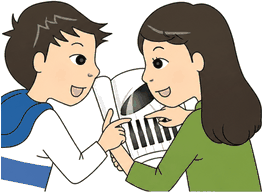
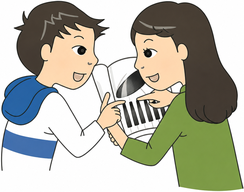
SET11: recolour Q28 ships, finish Q37 option 4 left edge

diff --git a/ubt-new/sets/2025_SET11/data.js b/ubt-new/sets/2025_SET11/data.js
@@ -1,1 +1,1 @@
-UBT.set({"tag":"2025_SET11","title":"វិញ្ញាសាទី ១១","questions":[{"n":1,"prompt":"다음 그림을 보고 맞는 단어나 문장을 고르십시오.","body":"","options":[{"kind":"text","text":"바구니입니다.","art":null},{"kind":"text","text":"마대입니다.","art":null},{"kind":"text","text":"비닐 봉투입니다.","art":null},{"kind":"text","text":"종량제 봉투입니다.","art":null}],"a":2,"art":"q/01_stem.png?v=cba314088ba745d8"},{"n":2,"prompt":"다음 그림을 보고 맞는 단어나 문장을 고르십시오.","body":"","options":[{"kind":"text","text":"굴착기로 흙을 파고 있습니다.","art":null},{"kind":"text","text":"굴착기로 흙을 쌓고 있습니다.","art":null},{"kind":"text","text":"지게차로 흙을 파고 있습니다.","art":null},{"kind":"text","text":"지게차로 흙을 쌓고 있습니다.","art":null}],"a":2,"art":"q/02_stem.png?v=76c2294c92918078"},{"n":3,"prompt":"다음 질문에 답하십시오.","body":"다음 단어와 관계있는 것은 고르십시오.\n음담패설","options":[{"kind":"text","text":"성범죄","art":null},{"kind":"text","text":"성인식","art":null},{"kind":"text","text":"성상담","art":null},{"kind":"text","text":"성교육","art":null}],"a":1,"art":null},{"n":4,"prompt":"다음 질문에 답하십시오.","body":"다음 단어의 반댓말은 무엇입니까?\n분리하다","options":[{"kind":"text","text":"분류하다","art":null},{"kind":"text","text":"혼합하다","art":null},{"kind":"text","text":"확대하다","art":null},{"kind":"text","text":"적합하다","art":null}],"a":2,"art":null},{"n":5,"prompt":"빈칸에 들어갈 가장 알맞은 것을 고르십시오.","body":"직장 동료에게 농담을 했습니다. 그런데 내 농담을 듣고 직장 동료의 ________이/가 안 좋았습니다. 내 농담이 불쾌하다고 해서 빨리 사과했습니다.","options":[{"kind":"text","text":"얼굴","art":null},{"kind":"text","text":"표정","art":null},{"kind":"text","text":"안색","art":null},{"kind":"text","text":"성격","art":null}],"a":2,"art":null},{"n":6,"prompt":"빈칸에 들어갈 가장 알맞은 것을 고르십시오.","body":"친구한테 빌린 돈을 갚으려고 통장을 ______ 잔액이 부족했습니다. 그래서 이번 달 월급을 받으면 갚기로 했습니다.","options":[{"kind":"text","text":"조회해 보니","art":null},{"kind":"text","text":"대출해 보니","art":null},{"kind":"text","text":"조회하고 나서","art":null},{"kind":"text","text":"대출하고 나서","art":null}],"a":4,"art":null},{"n":7,"prompt":"빈칸에 들어갈 가장 알맞은 것을 고르십시오.","body":"등산은 한국 사람들이 즐겨 하는 ______ 활동입니다. 주말이나 휴일에 가까운 산으로 등산하러 가는 사람들을 많이 볼 수 있습니다.","options":[{"kind":"text","text":"기념","art":null},{"kind":"text","text":"직업","art":null},{"kind":"text","text":"회식","art":null},{"kind":"text","text":"여가","art":null}],"a":4,"art":null},{"n":8,"prompt":"빈칸에 들어갈 가장 알맞은 것을 고르십시오.","body":"이번 일요일에 집에서 해야 할 일이 많습니다. 제일 먼저 침대가 ______.","options":[{"kind":"text","text":"오래되니까","art":null},{"kind":"text","text":"오래되다가","art":null},{"kind":"text","text":"사용되니까","art":null},{"kind":"text","text":"사용되다가","art":null}],"a":1,"art":null},{"n":9,"prompt":"다음 질문에 답하십시오.","body":"밑줄 친 부분이 맞는 문장을 고르십시오.","options":[{"kind":"text","text":"지하철을 타서 회사에 출근해요.","art":null,"marks":[{"type":"underline","start":5,"end":7}]},{"kind":"text","text":"술을 마셔서 운전할 줄 몰라요.","art":null,"marks":[{"type":"underline","start":7,"end":16}]},{"kind":"text","text":"한국어를 배우려고 센터에 가세요.","art":null,"marks":[{"type":"underline","start":5,"end":9}]},{"kind":"text","text":"미술관에 음식물을 반입할 수 없어요.","art":null,"marks":[{"type":"underline","start":10,"end":19}]}],"a":4,"art":null},{"n":10,"prompt":"다음 질문에 답하십시오.","body":"이 표지는 무슨 뜻입니까?\n술에 취한 사람은 들어가지 마세요.","options":[{"kind":"picture","text":"","art":"q/10_o1.png?v=3014f0a62c2a1527"},{"kind":"picture","text":"","art":"q/10_o2.png?v=1e692d0e1a30ca7a"},{"kind":"picture","text":"","art":"q/10_o3.png?v=bec58bc3f053acbe"},{"kind":"picture","text":"","art":"q/10_o4.png?v=42d220e2ef981381"}],"a":1,"art":null},{"n":11,"prompt":"다음 질문에 답하십시오.","body":"다음 그래프에 대한 가장 알맞은 것을 고르십시오.","options":[{"kind":"text","text":"아파트에 사는 사람이 많지 않습니다.","art":null},{"kind":"text","text":"기숙사에 사는 사람들이 두 번째 적습니다.","art":null},{"kind":"text","text":"자취방과 아파트에 사는 사람이 거의 같습니다.","art":null},{"kind":"text","text":"아파트에 사는 사람들이 절반 넘지 않습니다.","art":null}],"a":4,"art":"q/11_stem.png?v=cf201e39615e49e4"},{"n":12,"prompt":"다음 질문에 답하십시오.","body":"다음 글을 읽고 내용과 같은 것을 고르십시오.","options":[{"kind":"text","text":"이 상품은 외국인들을 위해 만 가능합니다.","art":null},{"kind":"text","text":"40명이 같이 출발하면 120,000원 내야 합니다.","art":null},{"kind":"text","text":"갯벌 체험하고 온천 물로 목욕할 수 있습니다.","art":null},{"kind":"text","text":"동대문에서 오후 9시에 안면도로 출발합니다.","art":null}],"a":3,"art":"q/12_stem.png?v=a2f33c8c388fabfa"},{"n":13,"prompt":"빈칸에 들어갈 가장 알맞은 것을 고르십시오.","body":"내일은 한국 식당에서 저녁을 먹으러 ______ 같이 갈까요?","options":[{"kind":"text","text":"팔 건데","art":null},{"kind":"text","text":"파는 대신에","art":null},{"kind":"text","text":"가는 대신에","art":null},{"kind":"text","text":"갈 건데","art":null}],"a":4,"art":null},{"n":14,"prompt":"빈칸에 들어갈 가장 알맞은 것을 고르십시오.","body":"저는 한국 사람이지만 영국에서 ______. 그래서 한국어와 영어를 모두 잘합니다.","options":[{"kind":"text","text":"살고 싶습니다","art":null},{"kind":"text","text":"사는 것 같습니다","art":null},{"kind":"text","text":"살고 있습니다","art":null},{"kind":"text","text":"사면 됩니다","art":null}],"a":3,"art":null},{"n":15,"prompt":"다음 글을 읽고 무엇에 대한 글인지 고르십시오.","body":"다음 글을 읽고 무엇에 대한 글인지 고르십시오.\n몽골의 전통집은 '게르'라고 합니다. '게르'는 나무로 벽을 세우고, 그 위에 가죽으로 만든 '펠트'를 씌워서 만든 집입니다. '게르'는 겨울에는 바람을 막아 주어서 따뜻하고, 여름에는 햇빛을 막아 주어서 시원합니다.","options":[{"kind":"text","text":"가죽","art":null},{"kind":"text","text":"주거","art":null},{"kind":"text","text":"나무","art":null},{"kind":"text","text":"시설","art":null}],"a":2,"art":null},{"n":16,"prompt":"다음 글을 읽고 무엇에 대한 글인지 고르십시오.","body":"다음 글을 읽고 무엇에 대한 글인지 고르십시오.\n몽골의 전통집은 '게르'라고 합니다. '게르'는 나무로 벽을 세우고, 그 위에 가죽으로 만든 '펠트'를 씌워서 만든 집입니다. '게르'는 겨울에는 바람을 막아 주어서 따뜻하고, 여름에는 햇빛을 막아 주어서 시원합니다.","options":[{"kind":"text","text":"가죽","art":null},{"kind":"text","text":"주거","art":null},{"kind":"text","text":"나무","art":null},{"kind":"text","text":"시설","art":null}],"a":3,"art":null},{"n":17,"prompt":"다음 글을 읽고 내용과 같은 것을 고르십시오.","body":"한국은 아시아 동쪽의 한반도에 있습니다. 한반도의 북쪽에 중국과 러시아가 있고 동쪽에 있는 바다를 건너면 일본이 있습니다. 한국의 다른 이름은 대한민국이고 수도는 서울입니다. 서울은 한반도의 중심에 있습니다. 인구는 오천만 명 정도인데 천만 명 정도가 서울에 삽니다. 한국에는 산이 많습니다. 한국의 70%가 산이지만 산의 높이가 아주 높지는 않습니다.","options":[{"kind":"text","text":"한국의 수도는 대한민국입니다.","art":null},{"kind":"text","text":"한국에는 높은 산이 아주 많습니다.","art":null},{"kind":"text","text":"한국은 아시아 북쪽에 있습니다.","art":null},{"kind":"text","text":"한국에는 약 오천만 명이 삽니다.","art":null}],"a":4,"art":null},{"n":18,"prompt":"다음 글을 읽고 내용과 같은 것을 고르십시오.","body":"한국에는 막걸리와 소주 두 가지 유명한 술이 있어요. 막걸리는 쌀과 물을 섞어서 만든 부드럽고 가벼운 맛이에요. 발효 과정으로 만든 이 술은 건강에도 좋아요. 여름에 특히 인기가 많아요. 소주는 쌀, 보리, 감자 등을 사용해서 깔끔하고 순수한 맛이에요. 다양한 자리와 모임에서 가장 많이 마시는 술 중 하나입니다. 요즘은 이런 술의 다양한 맛과 향을 즐길 수 있어요. 한국 문화와 역사에서 중요한 역할을 하는 전통 술이에요.","options":[{"kind":"text","text":"한국에는 막걸리만 유명해요.","art":null},{"kind":"text","text":"요즘은 이런 술을 별로 안 마십니다.","art":null},{"kind":"text","text":"막걸리는 여름철에 인기가 많아요.","art":null},{"kind":"text","text":"소주는 다른 맛과 향을 즐길 수 없어요.","art":null}],"a":3,"art":null},{"n":19,"prompt":"다음 설명에 알맞은 어휘를 고르십시오.","body":"사람들이 모여서 여러 운동 경기를 함께 하고 즐기는 행사입니다.","options":[{"kind":"text","text":"단합 대회","art":null},{"kind":"text","text":"등반 대회","art":null},{"kind":"text","text":"체육 대회","art":null},{"kind":"text","text":"야유회","art":null}],"a":3,"art":null},{"n":20,"prompt":"다음 설명에 알맞은 어휘를 고르십시오.","body":"사람들이 모여서 여러 운동 경기를 함께 하고 즐기는 행사입니다.","options":[{"kind":"text","text":"단합 대회","art":null},{"kind":"text","text":"등반 대회","art":null},{"kind":"text","text":"체육 대회","art":null},{"kind":"text","text":"야유회","art":null}],"a":3,"art":null},{"n":21,"prompt":"다음을 듣고 빈칸에 알맞은 것을 고르십시오.","body":"_____을 듣고 있어요.","options":[{"kind":"text","text":"케이팝","art":null},{"kind":"text","text":"힙합","art":null},{"kind":"text","text":"클래식","art":null},{"kind":"text","text":"트로트","art":null}],"a":1,"m":"audio/21.mp3?v=0319d9414db6600f","art":null},{"n":22,"prompt":"다음을 듣고 빈칸에 알맞은 것을 고르십시오.","body":"유니폼 파는 사이트 좀 ______ 주세요.","options":[{"kind":"text","text":"가르쳐","art":null},{"kind":"text","text":"기다려","art":null},{"kind":"text","text":"알려","art":null},{"kind":"text","text":"만들어","art":null}],"a":1,"m":"audio/22.mp3","art":null},{"n":23,"prompt":"들은 것을 고르십시오.","body":"","options":[{"kind":"picture","text":"","art":"q/23_o1.png?v=b5fbc7797d140a69"},{"kind":"picture","text":"","art":"q/23_o2.png?v=5a61b53bd470dad7"},{"kind":"picture","text":"","art":"q/23_o3.png?v=ec2c9479f939b983"},{"kind":"picture","text":"","art":"q/23_o4.png?v=95a1f19bcbed0982"}],"a":3,"m":"audio/23.mp3","art":null},{"n":24,"prompt":"들은 것을 고르십시오.","body":"","options":[{"kind":"picture","text":"","art":"q/24_o1.png?v=ee73ca99919b3dd4"},{"kind":"picture","text":"","art":"q/24_o2.png?v=a9b8149955c9bf77"},{"kind":"picture","text":"","art":"q/24_o3.png?v=570dd338c0ea56a2"},{"kind":"picture","text":"","art":"q/24_o4.png?v=a9907ebe7afa2c0a"}],"a":4,"m":"audio/24.mp3?v=db95f62ebed09eee","art":null},{"n":25,"prompt":"그림을 보고 알맞은 대답을 고르십시오.","body":"이것은 무엇입니까?","options":[{"kind":"text","text":"배달 앱입니다.","art":null,"audio":"audio/25_o1.mp3?v=ed70c0b9a36e3089"},{"kind":"text","text":"모바일 뱅킹입니다.","art":null,"audio":"audio/25_o2.mp3?v=fe1e4972a75ea7cf"},{"kind":"text","text":"SNS입니다.","art":null,"audio":"audio/25_o3.mp3?v=b9cc9845216a3bd2"},{"kind":"text","text":"홈페이지입니다.","art":null,"audio":"audio/25_o4.mp3?v=42ea13b523e00e7a"}],"a":2,"art":"q/25_stem.png?v=1217f32f0b5941da","m":"audio/25.mp3?v=5f92c3ed0c1b5e93"},{"n":26,"prompt":"그림을 보고 알맞은 대답을 고르십시오.","body":"여기는 어디입니까?","options":[{"kind":"text","text":"구내식당입니다.","art":null,"audio":"audio/26_o1.mp3?v=b2555305fb91e53b"},{"kind":"text","text":"커피숍입니다.","art":null,"audio":"audio/26_o2.mp3?v=562939045bd2bbe7"},{"kind":"text","text":"빵집입니다.","art":null,"audio":"audio/26_o3.mp3?v=d254808f95c4a554"},{"kind":"text","text":"편의점입니다.","art":null,"audio":"audio/26_o4.mp3?v=108edc379e42ea69"}],"a":1,"art":"q/26_stem.png?v=9db09bd1e534d6b9","m":"audio/26.mp3?v=8d3dd2dc04e76458"},{"n":27,"prompt":"그림을 보고 알맞은 대답을 고르십시오.","body":"이 사람은 무엇을 하고 있습니까?","options":[{"kind":"text","text":"나무를 자르고 있습니다.","art":null,"audio":"audio/27_o1.mp3?v=984d313ce44692db"},{"kind":"text","text":"나무를 운반하고 있습니다.","art":null,"audio":"audio/27_o2.mp3?v=2bec8d702a008016"},{"kind":"text","text":"나무를 차에 싣고 있습니다.","art":null,"audio":"audio/27_o3.mp3?v=ea1b0772276cd72f"},{"kind":"text","text":"나무를 쌓고 있습니다.","art":null,"audio":"audio/27_o4.mp3?v=1c7626de1787ffde"}],"a":4,"art":"q/27_stem.png?v=6b935aa44add8533","m":"audio/27.mp3?v=81742c3e92d099d9"},{"n":28,"prompt":"그림을 보고 알맞은 대답을 고르십시오.","body":"배가 얼마나 있습니까?","options":[{"kind":"text","text":"한 개 있습니다.","art":null,"audio":"audio/28_o1.mp3?v=4580a85255d21f77"},{"kind":"text","text":"두 개 있습니다.","art":null,"audio":"audio/28_o2.mp3?v=a49c2d51cfb731f9"},{"kind":"text","text":"한 척 있습니다.","art":null,"audio":"audio/28_o3.mp3?v=905514056074312b"},{"kind":"text","text":"두 척 있습니다.","art":null,"audio":"audio/28_o4.mp3?v=0d61d4e15cec644e"}],"a":4,"art":"q/28_stem.png?v=a5af5a99291ecc19","m":"audio/28.mp3?v=5f44925d1e221449"},{"n":29,"prompt":"그림을 보고 알맞은 대답을 고르십시오.","body":"창구는 어디에 있습니까?","options":[{"kind":"text","text":"식당 뒤에 있습니다.","art":null,"audio":"audio/29_o1.mp3?v=4cafcd830c9340ab"},{"kind":"text","text":"작업장 밖에 있습니다.","art":null,"audio":"audio/29_o2.mp3?v=fb3cccc5481a0814"},{"kind":"text","text":"사무실 앞에 있습니다.","art":null,"audio":"audio/29_o3.mp3?v=81c84fcd96dc6b96"},{"kind":"text","text":"관리실 옆에 있습니다.","art":null,"audio":"audio/29_o4.mp3?v=675cba136b858805"}],"a":3,"art":"q/29_stem.png?v=d0d40ab1026c9a1c","m":"audio/29.mp3?v=04a8b23f96763c8c"},{"n":30,"prompt":"다음을 듣고 질문에 알맞은 대답을 고르십시오.","body":"","options":[{"kind":"text","text":"작년부터 담배를 끊었어요.","art":null},{"kind":"text","text":"기숙사에는 담배를 피우는 사람이 많아요.","art":null},{"kind":"text","text":"여기 있는 사람들은 응원단이에요.","art":null},{"kind":"text","text":"여기에서 잠깐 기다려 주세요.","art":null}],"a":3,"m":"audio/30.mp3?v=6d2bb5d9cd78b726","art":null},{"n":31,"prompt":"다음을 듣고 질문에 알맞은 대답을 고르십시오.","body":"","options":[{"kind":"text","text":"작업이 끝나면 전원을 차단해야 돼요.","art":null},{"kind":"text","text":"전기 요금이 지난달보다 적게 나왔어요.","art":null},{"kind":"text","text":"작업을 시작하기 전에 기계를 점검하세요.","art":null},{"kind":"text","text":"전원이 흐르고 있으니까 조심하세요.","art":null}],"a":1,"m":"audio/31.mp3?v=fe2276c5dffed6b3","art":null},{"n":32,"prompt":"다음을 듣고 질문에 알맞은 대답을 고르십시오.","body":"","options":[{"kind":"text","text":"도서관에 갈 거예요.","art":null},{"kind":"text","text":"연필하고 공책을 샀어요.","art":null},{"kind":"text","text":"동대문 시장에서 샀어요.","art":null},{"kind":"text","text":"내일 서점에 갈 거예요.","art":null}],"a":3,"m":"audio/32.mp3?v=918765066f1c3e4e","art":null},{"n":33,"prompt":"다음을 듣고 질문에 알맞은 대답을 고르십시오.","body":"","options":[{"kind":"text","text":"체류 기간이 만료되기 전까지 연장하세요.","art":null},{"kind":"text","text":"비자가 아직 유효해서 괜찮아요.","art":null},{"kind":"text","text":"기간이 많이 남았으니까 아직 안 했어요.","art":null},{"kind":"text","text":"계약 기간을 연장하러 고용센터에 가요.","art":null}],"a":3,"m":"audio/33.mp3?v=31319e7bfeb6a9c6","art":null},{"n":34,"prompt":"다음을 듣고 이어지는 말을 고르십시오.","body":"","options":[{"kind":"text","text":"앞으로 한 달간은 눈이 온다고 했어요.","art":null},{"kind":"text","text":"날씨 때문에 오늘 작업을 못 했어요.","art":null},{"kind":"text","text":"날씨도 좋은데 우리 산책할까요?","art":null},{"kind":"text","text":"날씨가 안 좋을까 봐 걱정이에요.","art":null}],"a":3,"m":"audio/34.mp3?v=51f71f15a847df26","art":null},{"n":35,"prompt":"다음을 듣고 이어지는 말을 고르십시오.","body":"","options":[{"kind":"text","text":"앞으로 한 달간은 눈이 온다고 했어요.","art":null},{"kind":"text","text":"날씨 때문에 오늘 작업을 못 했어요.","art":null},{"kind":"text","text":"날씨도 좋은데 우리 산책할까요?","art":null},{"kind":"text","text":"날씨가 안 좋을까 봐 걱정이에요.","art":null}],"a":4,"m":"audio/35.mp3?v=a85d61a4649c7a48","art":null},{"n":36,"prompt":"잘 듣고 들은 내용과 관계있는 그림을 고르십시오.","body":"","options":[{"kind":"picture","text":"","art":"q/36_o1.png?v=c9305e2e72775ced"},{"kind":"picture","text":"","art":"q/36_o2.png?v=038044e52f460868"},{"kind":"picture","text":"","art":"q/36_o3.png?v=e4d1623a35e0a01d"},{"kind":"picture","text":"","art":"q/36_o4.png?v=2e6551c0735bf607"}],"a":3,"m":"audio/36.mp3?v=73760c546186ba56","art":null},{"n":37,"prompt":"잘 듣고 들은 내용과 관계있는 그림을 고르십시오.","body":"","options":[{"kind":"picture","text":"","art":"q/37_o1.png?v=91ebe694a475fdb0"},{"kind":"picture","text":"","art":"q/37_o2.png?v=a7a28ae9801eabd8"},{"kind":"picture","text":"","art":"q/37_o3.png?v=303e059746571603"},{"kind":"picture","text":"","art":"q/37_o4.png?v=d859880b7eabfb48"}],"a":1,"m":"audio/37.mp3?v=edf3897970a0db7c","art":null},{"n":38,"prompt":"이야기를 듣고 질문에 알맞은 대답을 고르십시오.","body":"두 사람이 무엇에 대해 이야기하고 있는지 고르십시오.","options":[{"kind":"text","text":"눈 건강","art":null},{"kind":"text","text":"컴퓨터의 단점","art":null},{"kind":"text","text":"안경을 쓰는 이유","art":null},{"kind":"text","text":"컴퓨터로 할 수 있는 일","art":null}],"a":1,"m":"audio/38.mp3","art":null},{"n":39,"prompt":"이야기를 듣고 질문에 알맞은 대답을 고르십시오.","body":"대화를 듣고 내용과 같은 것을 고르십시오.","options":[{"kind":"text","text":"남자는 여자를 걱정하고 있습니다.","art":null},{"kind":"text","text":"여자는 몸이 아파서 늦게 왔습니다.","art":null},{"kind":"text","text":"두 사람은 내일 아침에 만날 겁니다.","art":null},{"kind":"text","text":"두 사람은 택시를 기다리고 있습니다.","art":null}],"a":1,"m":"audio/39.mp3","art":null},{"n":40,"prompt":"이야기를 듣고 질문에 알맞은 대답을 고르십시오.","body":"대화를 듣고 내용과 같은 것을 고르십시오.","options":[{"kind":"text","text":"남자는 여자에게 사진을 선물했습니다.","art":null},{"kind":"text","text":"여자는 사진 찍는 것을 안 좋아합니다.","art":null},{"kind":"text","text":"남자는 사진 찍는 것을 배우고 있습니다.","art":null},{"kind":"text","text":"여자는 주말에 사진을 찍으러 갈 겁니다.","art":null}],"a":4,"m":"audio/40.mp3","art":null}]});
+UBT.set({"tag":"2025_SET11","title":"វិញ្ញាសាទី ១១","questions":[{"n":1,"prompt":"다음 그림을 보고 맞는 단어나 문장을 고르십시오.","body":"","options":[{"kind":"text","text":"바구니입니다.","art":null},{"kind":"text","text":"마대입니다.","art":null},{"kind":"text","text":"비닐 봉투입니다.","art":null},{"kind":"text","text":"종량제 봉투입니다.","art":null}],"a":2,"art":"q/01_stem.png?v=cba314088ba745d8"},{"n":2,"prompt":"다음 그림을 보고 맞는 단어나 문장을 고르십시오.","body":"","options":[{"kind":"text","text":"굴착기로 흙을 파고 있습니다.","art":null},{"kind":"text","text":"굴착기로 흙을 쌓고 있습니다.","art":null},{"kind":"text","text":"지게차로 흙을 파고 있습니다.","art":null},{"kind":"text","text":"지게차로 흙을 쌓고 있습니다.","art":null}],"a":2,"art":"q/02_stem.png?v=76c2294c92918078"},{"n":3,"prompt":"다음 질문에 답하십시오.","body":"다음 단어와 관계있는 것은 고르십시오.\n음담패설","options":[{"kind":"text","text":"성범죄","art":null},{"kind":"text","text":"성인식","art":null},{"kind":"text","text":"성상담","art":null},{"kind":"text","text":"성교육","art":null}],"a":1,"art":null},{"n":4,"prompt":"다음 질문에 답하십시오.","body":"다음 단어의 반댓말은 무엇입니까?\n분리하다","options":[{"kind":"text","text":"분류하다","art":null},{"kind":"text","text":"혼합하다","art":null},{"kind":"text","text":"확대하다","art":null},{"kind":"text","text":"적합하다","art":null}],"a":2,"art":null},{"n":5,"prompt":"빈칸에 들어갈 가장 알맞은 것을 고르십시오.","body":"직장 동료에게 농담을 했습니다. 그런데 내 농담을 듣고 직장 동료의 ________이/가 안 좋았습니다. 내 농담이 불쾌하다고 해서 빨리 사과했습니다.","options":[{"kind":"text","text":"얼굴","art":null},{"kind":"text","text":"표정","art":null},{"kind":"text","text":"안색","art":null},{"kind":"text","text":"성격","art":null}],"a":2,"art":null},{"n":6,"prompt":"빈칸에 들어갈 가장 알맞은 것을 고르십시오.","body":"친구한테 빌린 돈을 갚으려고 통장을 ______ 잔액이 부족했습니다. 그래서 이번 달 월급을 받으면 갚기로 했습니다.","options":[{"kind":"text","text":"조회해 보니","art":null},{"kind":"text","text":"대출해 보니","art":null},{"kind":"text","text":"조회하고 나서","art":null},{"kind":"text","text":"대출하고 나서","art":null}],"a":4,"art":null},{"n":7,"prompt":"빈칸에 들어갈 가장 알맞은 것을 고르십시오.","body":"등산은 한국 사람들이 즐겨 하는 ______ 활동입니다. 주말이나 휴일에 가까운 산으로 등산하러 가는 사람들을 많이 볼 수 있습니다.","options":[{"kind":"text","text":"기념","art":null},{"kind":"text","text":"직업","art":null},{"kind":"text","text":"회식","art":null},{"kind":"text","text":"여가","art":null}],"a":4,"art":null},{"n":8,"prompt":"빈칸에 들어갈 가장 알맞은 것을 고르십시오.","body":"이번 일요일에 집에서 해야 할 일이 많습니다. 제일 먼저 침대가 ______.","options":[{"kind":"text","text":"오래되니까","art":null},{"kind":"text","text":"오래되다가","art":null},{"kind":"text","text":"사용되니까","art":null},{"kind":"text","text":"사용되다가","art":null}],"a":1,"art":null},{"n":9,"prompt":"다음 질문에 답하십시오.","body":"밑줄 친 부분이 맞는 문장을 고르십시오.","options":[{"kind":"text","text":"지하철을 타서 회사에 출근해요.","art":null,"marks":[{"type":"underline","start":5,"end":7}]},{"kind":"text","text":"술을 마셔서 운전할 줄 몰라요.","art":null,"marks":[{"type":"underline","start":7,"end":16}]},{"kind":"text","text":"한국어를 배우려고 센터에 가세요.","art":null,"marks":[{"type":"underline","start":5,"end":9}]},{"kind":"text","text":"미술관에 음식물을 반입할 수 없어요.","art":null,"marks":[{"type":"underline","start":10,"end":19}]}],"a":4,"art":null},{"n":10,"prompt":"다음 질문에 답하십시오.","body":"이 표지는 무슨 뜻입니까?\n술에 취한 사람은 들어가지 마세요.","options":[{"kind":"picture","text":"","art":"q/10_o1.png?v=3014f0a62c2a1527"},{"kind":"picture","text":"","art":"q/10_o2.png?v=1e692d0e1a30ca7a"},{"kind":"picture","text":"","art":"q/10_o3.png?v=bec58bc3f053acbe"},{"kind":"picture","text":"","art":"q/10_o4.png?v=42d220e2ef981381"}],"a":1,"art":null},{"n":11,"prompt":"다음 질문에 답하십시오.","body":"다음 그래프에 대한 가장 알맞은 것을 고르십시오.","options":[{"kind":"text","text":"아파트에 사는 사람이 많지 않습니다.","art":null},{"kind":"text","text":"기숙사에 사는 사람들이 두 번째 적습니다.","art":null},{"kind":"text","text":"자취방과 아파트에 사는 사람이 거의 같습니다.","art":null},{"kind":"text","text":"아파트에 사는 사람들이 절반 넘지 않습니다.","art":null}],"a":4,"art":"q/11_stem.png?v=cf201e39615e49e4"},{"n":12,"prompt":"다음 질문에 답하십시오.","body":"다음 글을 읽고 내용과 같은 것을 고르십시오.","options":[{"kind":"text","text":"이 상품은 외국인들을 위해 만 가능합니다.","art":null},{"kind":"text","text":"40명이 같이 출발하면 120,000원 내야 합니다.","art":null},{"kind":"text","text":"갯벌 체험하고 온천 물로 목욕할 수 있습니다.","art":null},{"kind":"text","text":"동대문에서 오후 9시에 안면도로 출발합니다.","art":null}],"a":3,"art":"q/12_stem.png?v=a2f33c8c388fabfa"},{"n":13,"prompt":"빈칸에 들어갈 가장 알맞은 것을 고르십시오.","body":"내일은 한국 식당에서 저녁을 먹으러 ______ 같이 갈까요?","options":[{"kind":"text","text":"팔 건데","art":null},{"kind":"text","text":"파는 대신에","art":null},{"kind":"text","text":"가는 대신에","art":null},{"kind":"text","text":"갈 건데","art":null}],"a":4,"art":null},{"n":14,"prompt":"빈칸에 들어갈 가장 알맞은 것을 고르십시오.","body":"저는 한국 사람이지만 영국에서 ______. 그래서 한국어와 영어를 모두 잘합니다.","options":[{"kind":"text","text":"살고 싶습니다","art":null},{"kind":"text","text":"사는 것 같습니다","art":null},{"kind":"text","text":"살고 있습니다","art":null},{"kind":"text","text":"사면 됩니다","art":null}],"a":3,"art":null},{"n":15,"prompt":"다음 글을 읽고 무엇에 대한 글인지 고르십시오.","body":"다음 글을 읽고 무엇에 대한 글인지 고르십시오.\n몽골의 전통집은 '게르'라고 합니다. '게르'는 나무로 벽을 세우고, 그 위에 가죽으로 만든 '펠트'를 씌워서 만든 집입니다. '게르'는 겨울에는 바람을 막아 주어서 따뜻하고, 여름에는 햇빛을 막아 주어서 시원합니다.","options":[{"kind":"text","text":"가죽","art":null},{"kind":"text","text":"주거","art":null},{"kind":"text","text":"나무","art":null},{"kind":"text","text":"시설","art":null}],"a":2,"art":null},{"n":16,"prompt":"다음 글을 읽고 무엇에 대한 글인지 고르십시오.","body":"다음 글을 읽고 무엇에 대한 글인지 고르십시오.\n몽골의 전통집은 '게르'라고 합니다. '게르'는 나무로 벽을 세우고, 그 위에 가죽으로 만든 '펠트'를 씌워서 만든 집입니다. '게르'는 겨울에는 바람을 막아 주어서 따뜻하고, 여름에는 햇빛을 막아 주어서 시원합니다.","options":[{"kind":"text","text":"가죽","art":null},{"kind":"text","text":"주거","art":null},{"kind":"text","text":"나무","art":null},{"kind":"text","text":"시설","art":null}],"a":3,"art":null},{"n":17,"prompt":"다음 글을 읽고 내용과 같은 것을 고르십시오.","body":"한국은 아시아 동쪽의 한반도에 있습니다. 한반도의 북쪽에 중국과 러시아가 있고 동쪽에 있는 바다를 건너면 일본이 있습니다. 한국의 다른 이름은 대한민국이고 수도는 서울입니다. 서울은 한반도의 중심에 있습니다. 인구는 오천만 명 정도인데 천만 명 정도가 서울에 삽니다. 한국에는 산이 많습니다. 한국의 70%가 산이지만 산의 높이가 아주 높지는 않습니다.","options":[{"kind":"text","text":"한국의 수도는 대한민국입니다.","art":null},{"kind":"text","text":"한국에는 높은 산이 아주 많습니다.","art":null},{"kind":"text","text":"한국은 아시아 북쪽에 있습니다.","art":null},{"kind":"text","text":"한국에는 약 오천만 명이 삽니다.","art":null}],"a":4,"art":null},{"n":18,"prompt":"다음 글을 읽고 내용과 같은 것을 고르십시오.","body":"한국에는 막걸리와 소주 두 가지 유명한 술이 있어요. 막걸리는 쌀과 물을 섞어서 만든 부드럽고 가벼운 맛이에요. 발효 과정으로 만든 이 술은 건강에도 좋아요. 여름에 특히 인기가 많아요. 소주는 쌀, 보리, 감자 등을 사용해서 깔끔하고 순수한 맛이에요. 다양한 자리와 모임에서 가장 많이 마시는 술 중 하나입니다. 요즘은 이런 술의 다양한 맛과 향을 즐길 수 있어요. 한국 문화와 역사에서 중요한 역할을 하는 전통 술이에요.","options":[{"kind":"text","text":"한국에는 막걸리만 유명해요.","art":null},{"kind":"text","text":"요즘은 이런 술을 별로 안 마십니다.","art":null},{"kind":"text","text":"막걸리는 여름철에 인기가 많아요.","art":null},{"kind":"text","text":"소주는 다른 맛과 향을 즐길 수 없어요.","art":null}],"a":3,"art":null},{"n":19,"prompt":"다음 설명에 알맞은 어휘를 고르십시오.","body":"사람들이 모여서 여러 운동 경기를 함께 하고 즐기는 행사입니다.","options":[{"kind":"text","text":"단합 대회","art":null},{"kind":"text","text":"등반 대회","art":null},{"kind":"text","text":"체육 대회","art":null},{"kind":"text","text":"야유회","art":null}],"a":3,"art":null},{"n":20,"prompt":"다음 설명에 알맞은 어휘를 고르십시오.","body":"사람들이 모여서 여러 운동 경기를 함께 하고 즐기는 행사입니다.","options":[{"kind":"text","text":"단합 대회","art":null},{"kind":"text","text":"등반 대회","art":null},{"kind":"text","text":"체육 대회","art":null},{"kind":"text","text":"야유회","art":null}],"a":3,"art":null},{"n":21,"prompt":"다음을 듣고 빈칸에 알맞은 것을 고르십시오.","body":"_____을 듣고 있어요.","options":[{"kind":"text","text":"케이팝","art":null},{"kind":"text","text":"힙합","art":null},{"kind":"text","text":"클래식","art":null},{"kind":"text","text":"트로트","art":null}],"a":1,"m":"audio/21.mp3?v=0319d9414db6600f","art":null},{"n":22,"prompt":"다음을 듣고 빈칸에 알맞은 것을 고르십시오.","body":"유니폼 파는 사이트 좀 ______ 주세요.","options":[{"kind":"text","text":"가르쳐","art":null},{"kind":"text","text":"기다려","art":null},{"kind":"text","text":"알려","art":null},{"kind":"text","text":"만들어","art":null}],"a":1,"m":"audio/22.mp3","art":null},{"n":23,"prompt":"들은 것을 고르십시오.","body":"","options":[{"kind":"picture","text":"","art":"q/23_o1.png?v=b5fbc7797d140a69"},{"kind":"picture","text":"","art":"q/23_o2.png?v=5a61b53bd470dad7"},{"kind":"picture","text":"","art":"q/23_o3.png?v=ec2c9479f939b983"},{"kind":"picture","text":"","art":"q/23_o4.png?v=95a1f19bcbed0982"}],"a":3,"m":"audio/23.mp3","art":null},{"n":24,"prompt":"들은 것을 고르십시오.","body":"","options":[{"kind":"picture","text":"","art":"q/24_o1.png?v=ee73ca99919b3dd4"},{"kind":"picture","text":"","art":"q/24_o2.png?v=a9b8149955c9bf77"},{"kind":"picture","text":"","art":"q/24_o3.png?v=570dd338c0ea56a2"},{"kind":"picture","text":"","art":"q/24_o4.png?v=a9907ebe7afa2c0a"}],"a":4,"m":"audio/24.mp3?v=db95f62ebed09eee","art":null},{"n":25,"prompt":"그림을 보고 알맞은 대답을 고르십시오.","body":"이것은 무엇입니까?","options":[{"kind":"text","text":"배달 앱입니다.","art":null,"audio":"audio/25_o1.mp3?v=ed70c0b9a36e3089"},{"kind":"text","text":"모바일 뱅킹입니다.","art":null,"audio":"audio/25_o2.mp3?v=fe1e4972a75ea7cf"},{"kind":"text","text":"SNS입니다.","art":null,"audio":"audio/25_o3.mp3?v=b9cc9845216a3bd2"},{"kind":"text","text":"홈페이지입니다.","art":null,"audio":"audio/25_o4.mp3?v=42ea13b523e00e7a"}],"a":2,"art":"q/25_stem.png?v=1217f32f0b5941da","m":"audio/25.mp3?v=5f92c3ed0c1b5e93"},{"n":26,"prompt":"그림을 보고 알맞은 대답을 고르십시오.","body":"여기는 어디입니까?","options":[{"kind":"text","text":"구내식당입니다.","art":null,"audio":"audio/26_o1.mp3?v=b2555305fb91e53b"},{"kind":"text","text":"커피숍입니다.","art":null,"audio":"audio/26_o2.mp3?v=562939045bd2bbe7"},{"kind":"text","text":"빵집입니다.","art":null,"audio":"audio/26_o3.mp3?v=d254808f95c4a554"},{"kind":"text","text":"편의점입니다.","art":null,"audio":"audio/26_o4.mp3?v=108edc379e42ea69"}],"a":1,"art":"q/26_stem.png?v=9db09bd1e534d6b9","m":"audio/26.mp3?v=8d3dd2dc04e76458"},{"n":27,"prompt":"그림을 보고 알맞은 대답을 고르십시오.","body":"이 사람은 무엇을 하고 있습니까?","options":[{"kind":"text","text":"나무를 자르고 있습니다.","art":null,"audio":"audio/27_o1.mp3?v=984d313ce44692db"},{"kind":"text","text":"나무를 운반하고 있습니다.","art":null,"audio":"audio/27_o2.mp3?v=2bec8d702a008016"},{"kind":"text","text":"나무를 차에 싣고 있습니다.","art":null,"audio":"audio/27_o3.mp3?v=ea1b0772276cd72f"},{"kind":"text","text":"나무를 쌓고 있습니다.","art":null,"audio":"audio/27_o4.mp3?v=1c7626de1787ffde"}],"a":4,"art":"q/27_stem.png?v=6b935aa44add8533","m":"audio/27.mp3?v=81742c3e92d099d9"},{"n":28,"prompt":"그림을 보고 알맞은 대답을 고르십시오.","body":"배가 얼마나 있습니까?","options":[{"kind":"text","text":"한 개 있습니다.","art":null,"audio":"audio/28_o1.mp3?v=4580a85255d21f77"},{"kind":"text","text":"두 개 있습니다.","art":null,"audio":"audio/28_o2.mp3?v=a49c2d51cfb731f9"},{"kind":"text","text":"한 척 있습니다.","art":null,"audio":"audio/28_o3.mp3?v=905514056074312b"},{"kind":"text","text":"두 척 있습니다.","art":null,"audio":"audio/28_o4.mp3?v=0d61d4e15cec644e"}],"a":4,"art":"q/28_stem.png?v=dc2934a7144d3015","m":"audio/28.mp3?v=5f44925d1e221449"},{"n":29,"prompt":"그림을 보고 알맞은 대답을 고르십시오.","body":"창구는 어디에 있습니까?","options":[{"kind":"text","text":"식당 뒤에 있습니다.","art":null,"audio":"audio/29_o1.mp3?v=4cafcd830c9340ab"},{"kind":"text","text":"작업장 밖에 있습니다.","art":null,"audio":"audio/29_o2.mp3?v=fb3cccc5481a0814"},{"kind":"text","text":"사무실 앞에 있습니다.","art":null,"audio":"audio/29_o3.mp3?v=81c84fcd96dc6b96"},{"kind":"text","text":"관리실 옆에 있습니다.","art":null,"audio":"audio/29_o4.mp3?v=675cba136b858805"}],"a":3,"art":"q/29_stem.png?v=d0d40ab1026c9a1c","m":"audio/29.mp3?v=04a8b23f96763c8c"},{"n":30,"prompt":"다음을 듣고 질문에 알맞은 대답을 고르십시오.","body":"","options":[{"kind":"text","text":"작년부터 담배를 끊었어요.","art":null},{"kind":"text","text":"기숙사에는 담배를 피우는 사람이 많아요.","art":null},{"kind":"text","text":"여기 있는 사람들은 응원단이에요.","art":null},{"kind":"text","text":"여기에서 잠깐 기다려 주세요.","art":null}],"a":3,"m":"audio/30.mp3?v=6d2bb5d9cd78b726","art":null},{"n":31,"prompt":"다음을 듣고 질문에 알맞은 대답을 고르십시오.","body":"","options":[{"kind":"text","text":"작업이 끝나면 전원을 차단해야 돼요.","art":null},{"kind":"text","text":"전기 요금이 지난달보다 적게 나왔어요.","art":null},{"kind":"text","text":"작업을 시작하기 전에 기계를 점검하세요.","art":null},{"kind":"text","text":"전원이 흐르고 있으니까 조심하세요.","art":null}],"a":1,"m":"audio/31.mp3?v=fe2276c5dffed6b3","art":null},{"n":32,"prompt":"다음을 듣고 질문에 알맞은 대답을 고르십시오.","body":"","options":[{"kind":"text","text":"도서관에 갈 거예요.","art":null},{"kind":"text","text":"연필하고 공책을 샀어요.","art":null},{"kind":"text","text":"동대문 시장에서 샀어요.","art":null},{"kind":"text","text":"내일 서점에 갈 거예요.","art":null}],"a":3,"m":"audio/32.mp3?v=918765066f1c3e4e","art":null},{"n":33,"prompt":"다음을 듣고 질문에 알맞은 대답을 고르십시오.","body":"","options":[{"kind":"text","text":"체류 기간이 만료되기 전까지 연장하세요.","art":null},{"kind":"text","text":"비자가 아직 유효해서 괜찮아요.","art":null},{"kind":"text","text":"기간이 많이 남았으니까 아직 안 했어요.","art":null},{"kind":"text","text":"계약 기간을 연장하러 고용센터에 가요.","art":null}],"a":3,"m":"audio/33.mp3?v=31319e7bfeb6a9c6","art":null},{"n":34,"prompt":"다음을 듣고 이어지는 말을 고르십시오.","body":"","options":[{"kind":"text","text":"앞으로 한 달간은 눈이 온다고 했어요.","art":null},{"kind":"text","text":"날씨 때문에 오늘 작업을 못 했어요.","art":null},{"kind":"text","text":"날씨도 좋은데 우리 산책할까요?","art":null},{"kind":"text","text":"날씨가 안 좋을까 봐 걱정이에요.","art":null}],"a":3,"m":"audio/34.mp3?v=51f71f15a847df26","art":null},{"n":35,"prompt":"다음을 듣고 이어지는 말을 고르십시오.","body":"","options":[{"kind":"text","text":"앞으로 한 달간은 눈이 온다고 했어요.","art":null},{"kind":"text","text":"날씨 때문에 오늘 작업을 못 했어요.","art":null},{"kind":"text","text":"날씨도 좋은데 우리 산책할까요?","art":null},{"kind":"text","text":"날씨가 안 좋을까 봐 걱정이에요.","art":null}],"a":4,"m":"audio/35.mp3?v=a85d61a4649c7a48","art":null},{"n":36,"prompt":"잘 듣고 들은 내용과 관계있는 그림을 고르십시오.","body":"","options":[{"kind":"picture","text":"","art":"q/36_o1.png?v=c9305e2e72775ced"},{"kind":"picture","text":"","art":"q/36_o2.png?v=038044e52f460868"},{"kind":"picture","text":"","art":"q/36_o3.png?v=e4d1623a35e0a01d"},{"kind":"picture","text":"","art":"q/36_o4.png?v=2e6551c0735bf607"}],"a":3,"m":"audio/36.mp3?v=73760c546186ba56","art":null},{"n":37,"prompt":"잘 듣고 들은 내용과 관계있는 그림을 고르십시오.","body":"","options":[{"kind":"picture","text":"","art":"q/37_o1.png?v=91ebe694a475fdb0"},{"kind":"picture","text":"","art":"q/37_o2.png?v=a7a28ae9801eabd8"},{"kind":"picture","text":"","art":"q/37_o3.png?v=303e059746571603"},{"kind":"picture","text":"","art":"q/37_o4.png?v=5c52909b4dbd741d"}],"a":1,"m":"audio/37.mp3?v=edf3897970a0db7c","art":null},{"n":38,"prompt":"이야기를 듣고 질문에 알맞은 대답을 고르십시오.","body":"두 사람이 무엇에 대해 이야기하고 있는지 고르십시오.","options":[{"kind":"text","text":"눈 건강","art":null},{"kind":"text","text":"컴퓨터의 단점","art":null},{"kind":"text","text":"안경을 쓰는 이유","art":null},{"kind":"text","text":"컴퓨터로 할 수 있는 일","art":null}],"a":1,"m":"audio/38.mp3","art":null},{"n":39,"prompt":"이야기를 듣고 질문에 알맞은 대답을 고르십시오.","body":"대화를 듣고 내용과 같은 것을 고르십시오.","options":[{"kind":"text","text":"남자는 여자를 걱정하고 있습니다.","art":null},{"kind":"text","text":"여자는 몸이 아파서 늦게 왔습니다.","art":null},{"kind":"text","text":"두 사람은 내일 아침에 만날 겁니다.","art":null},{"kind":"text","text":"두 사람은 택시를 기다리고 있습니다.","art":null}],"a":1,"m":"audio/39.mp3","art":null},{"n":40,"prompt":"이야기를 듣고 질문에 알맞은 대답을 고르십시오.","body":"대화를 듣고 내용과 같은 것을 고르십시오.","options":[{"kind":"text","text":"남자는 여자에게 사진을 선물했습니다.","art":null},{"kind":"text","text":"여자는 사진 찍는 것을 안 좋아합니다.","art":null},{"kind":"text","text":"남자는 사진 찍는 것을 배우고 있습니다.","art":null},{"kind":"text","text":"여자는 주말에 사진을 찍으러 갈 겁니다.","art":null}],"a":4,"m":"audio/40.mp3","art":null}]});
